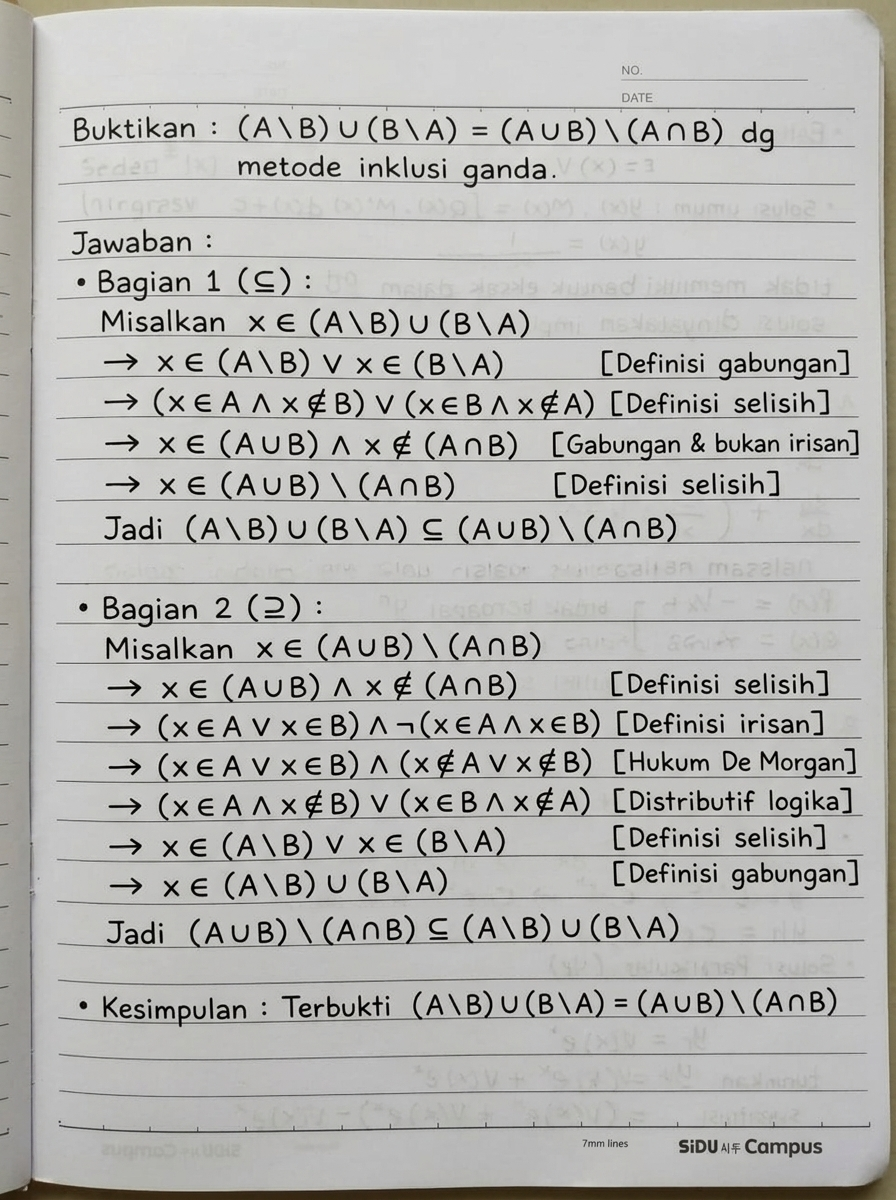
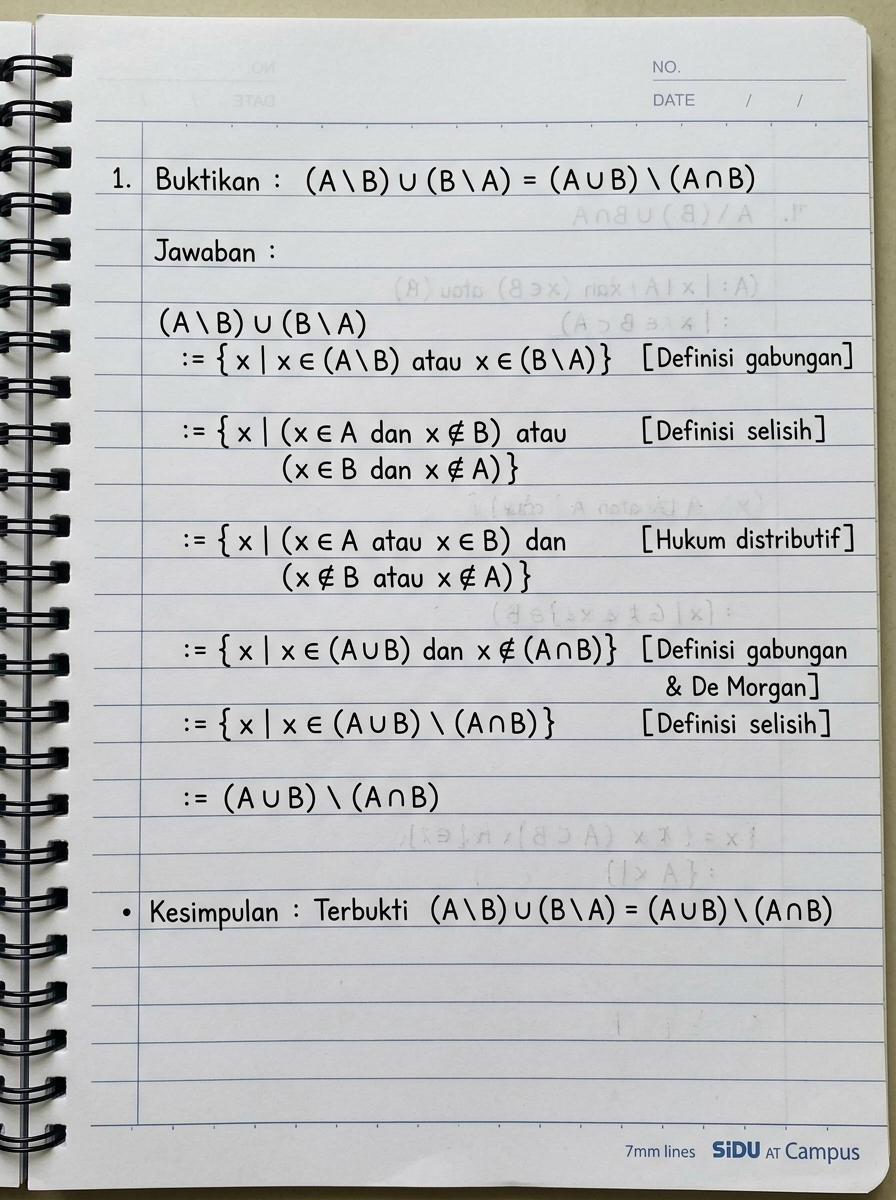
fix(analisis-real): perbarui foto jawaban latihan 1-3 pertemuan 02 sesuai standar definisi Bartle 1.1.3

Changed region(s): [[0.0, 0.0, 1.0, 1.0]]

diff --git a/public/materi/KP21517004/pertemuan-02/index.html b/public/materi/KP21517004/pertemuan-02/index.html
@@ -1072,24 +1072,24 @@
       <article class="card">
         <div class="formula-title">Jawaban Nomor 1</div>
         <p><strong>Cara membaca kesimpulan:</strong> “Gabungan A tanpa B dan B tanpa A sama dengan gabungan A dan B tanpa irisan A dan B.”</p>
-        <a href="jawaban/Latihan_Pertemuan_02_Nomor_1.jpg?v=20260825-2" target="_blank" rel="noopener">
-          <img class="answer-photo" src="jawaban/Latihan_Pertemuan_02_Nomor_1.jpg?v=20260825-2" alt="Jawaban tulisan tangan latihan Analisis Real Pertemuan 02 nomor 1" width="896" height="1200" loading="lazy">
+        <a href="jawaban/Latihan_Pertemuan_02_Nomor_1.jpg?v=20260827-revisi" target="_blank" rel="noopener">
+          <img class="answer-photo" src="jawaban/Latihan_Pertemuan_02_Nomor_1.jpg?v=20260827-revisi" alt="Jawaban tulisan tangan latihan Analisis Real Pertemuan 02 nomor 1" width="896" height="1200" loading="lazy">
           <span class="answer-link">Buka gambar ukuran penuh</span>
         </a>
       </article>
       <article class="card">
         <div class="formula-title">Jawaban Nomor 2</div>
         <p><strong>Cara membaca kesimpulan:</strong> “Irisan A dan B sama dengan A tanpa bagian A yang bukan anggota B.”</p>
-        <a href="jawaban/Latihan_Pertemuan_02_Nomor_2.jpg" target="_blank" rel="noopener">
-          <img class="answer-photo" src="jawaban/Latihan_Pertemuan_02_Nomor_2.jpg" alt="Jawaban tulisan tangan latihan Analisis Real Pertemuan 02 nomor 2" width="896" height="1200" loading="lazy">
+        <a href="jawaban/Latihan_Pertemuan_02_Nomor_2.jpg?v=20260827-revisi" target="_blank" rel="noopener">
+          <img class="answer-photo" src="jawaban/Latihan_Pertemuan_02_Nomor_2.jpg?v=20260827-revisi" alt="Jawaban tulisan tangan latihan Analisis Real Pertemuan 02 nomor 2" width="896" height="1200" loading="lazy">
           <span class="answer-link">Buka gambar ukuran penuh</span>
         </a>
       </article>
       <article class="card">
         <div class="formula-title">Jawaban Nomor 3</div>
         <p><strong>Cara membaca kesimpulan:</strong> “A sama dengan gabungan bagian A yang juga anggota B dan bagian A yang bukan anggota B.”</p>
-        <a href="jawaban/Latihan_Pertemuan_02_Nomor_3.jpg" target="_blank" rel="noopener">
-          <img class="answer-photo" src="jawaban/Latihan_Pertemuan_02_Nomor_3.jpg" alt="Jawaban tulisan tangan latihan Analisis Real Pertemuan 02 nomor 3" width="896" height="1200" loading="lazy">
+        <a href="jawaban/Latihan_Pertemuan_02_Nomor_3.jpg?v=20260827-revisi" target="_blank" rel="noopener">
+          <img class="answer-photo" src="jawaban/Latihan_Pertemuan_02_Nomor_3.jpg?v=20260827-revisi" alt="Jawaban tulisan tangan latihan Analisis Real Pertemuan 02 nomor 3" width="896" height="1200" loading="lazy">
           <span class="answer-link">Buka gambar ukuran penuh</span>
         </a>
       </article>
